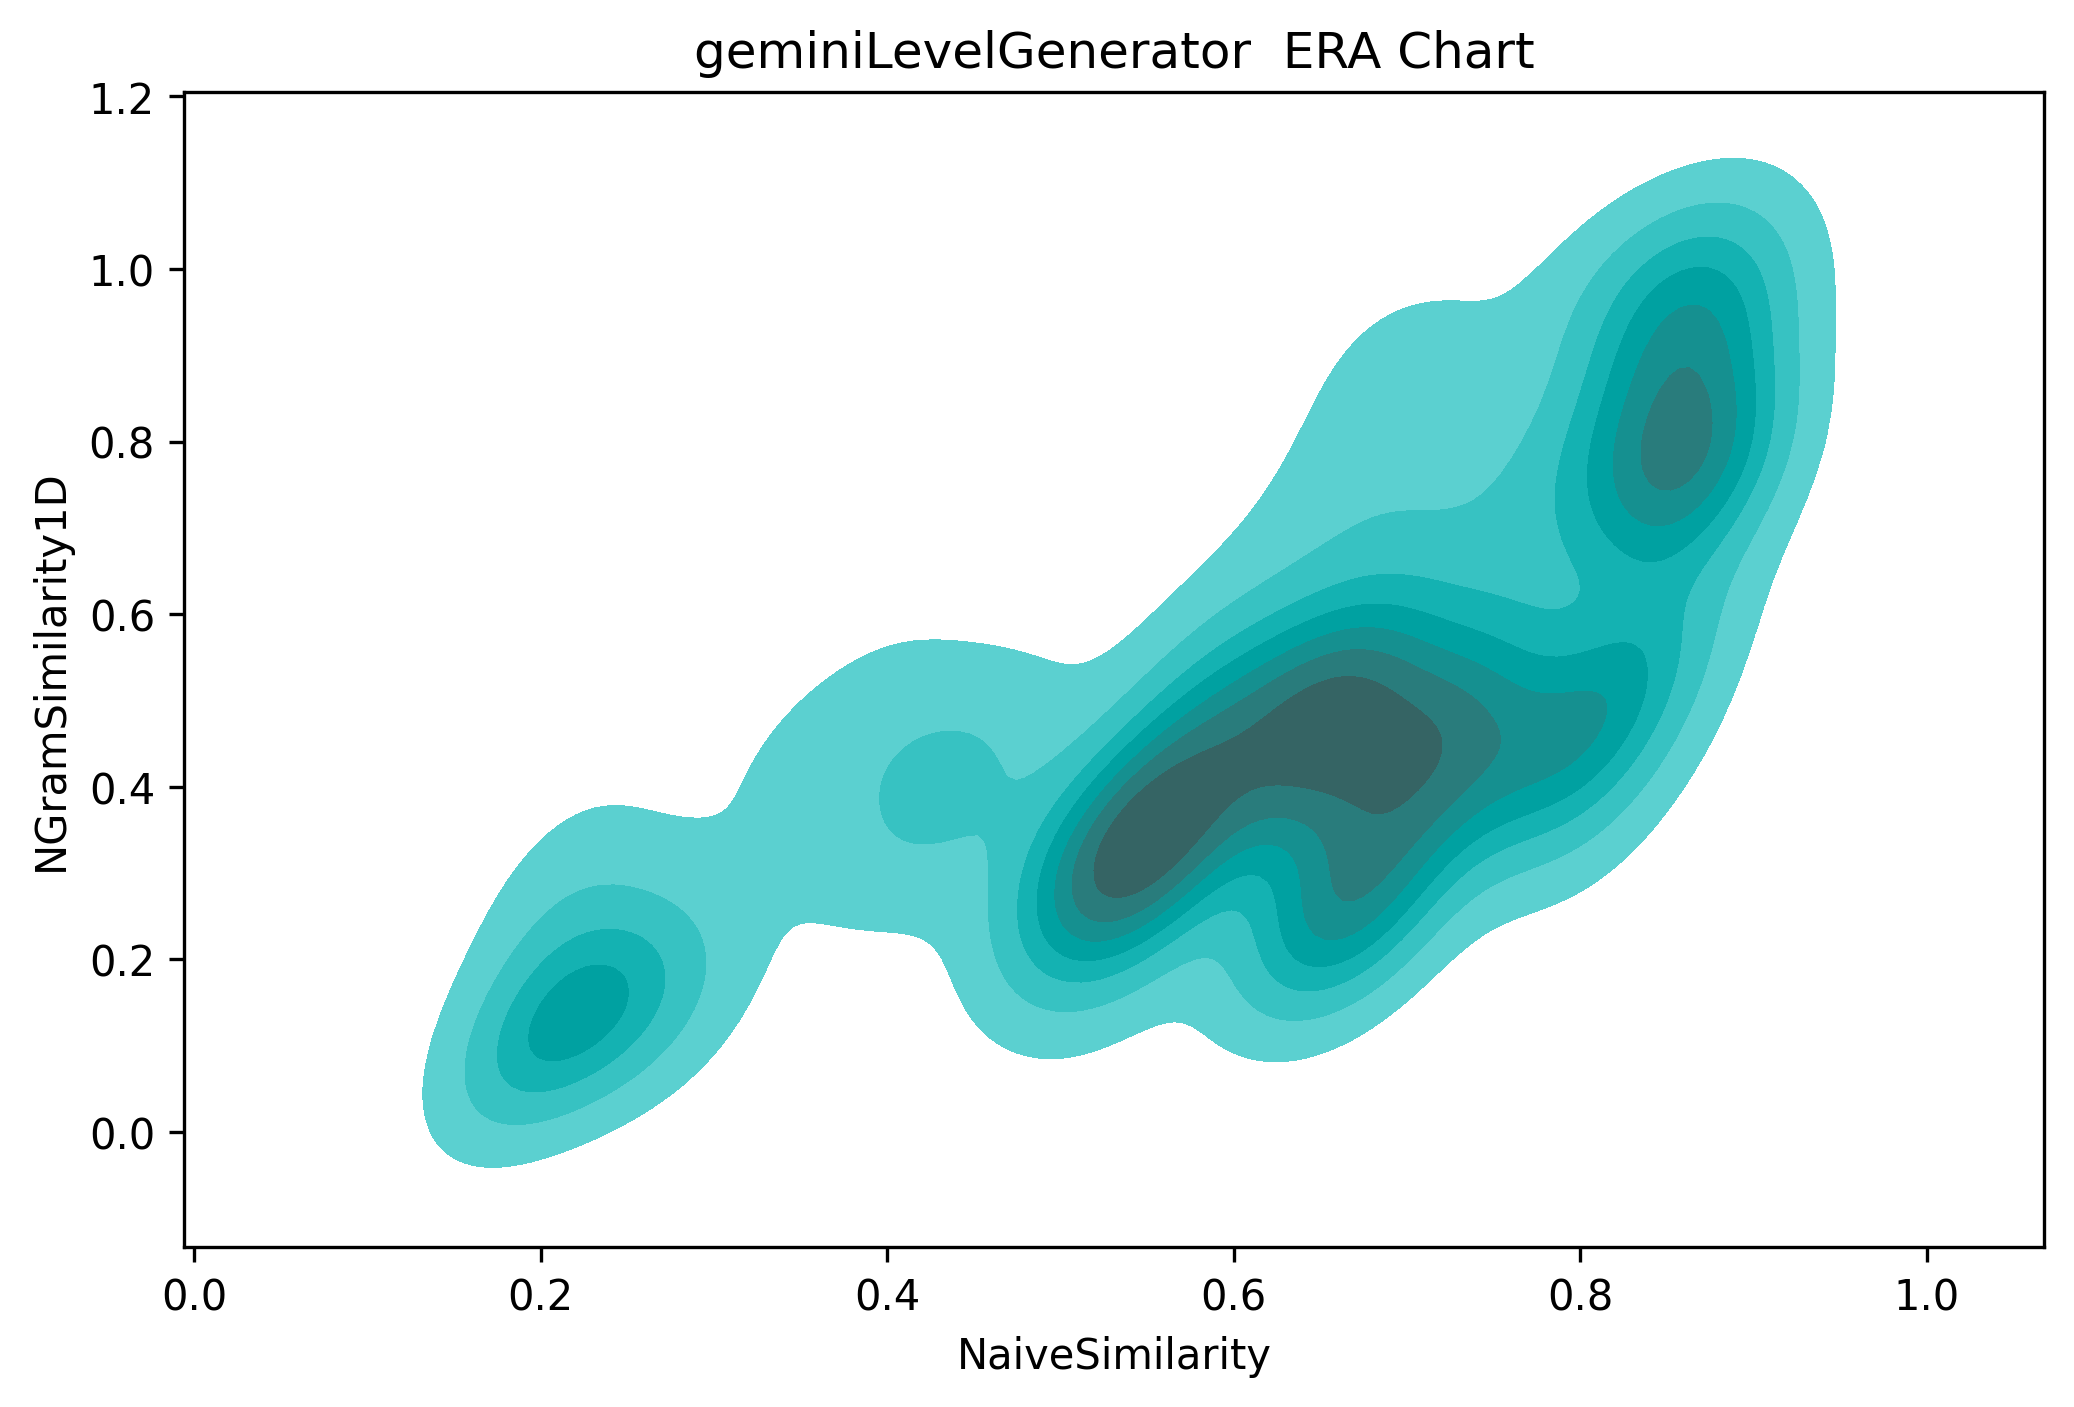
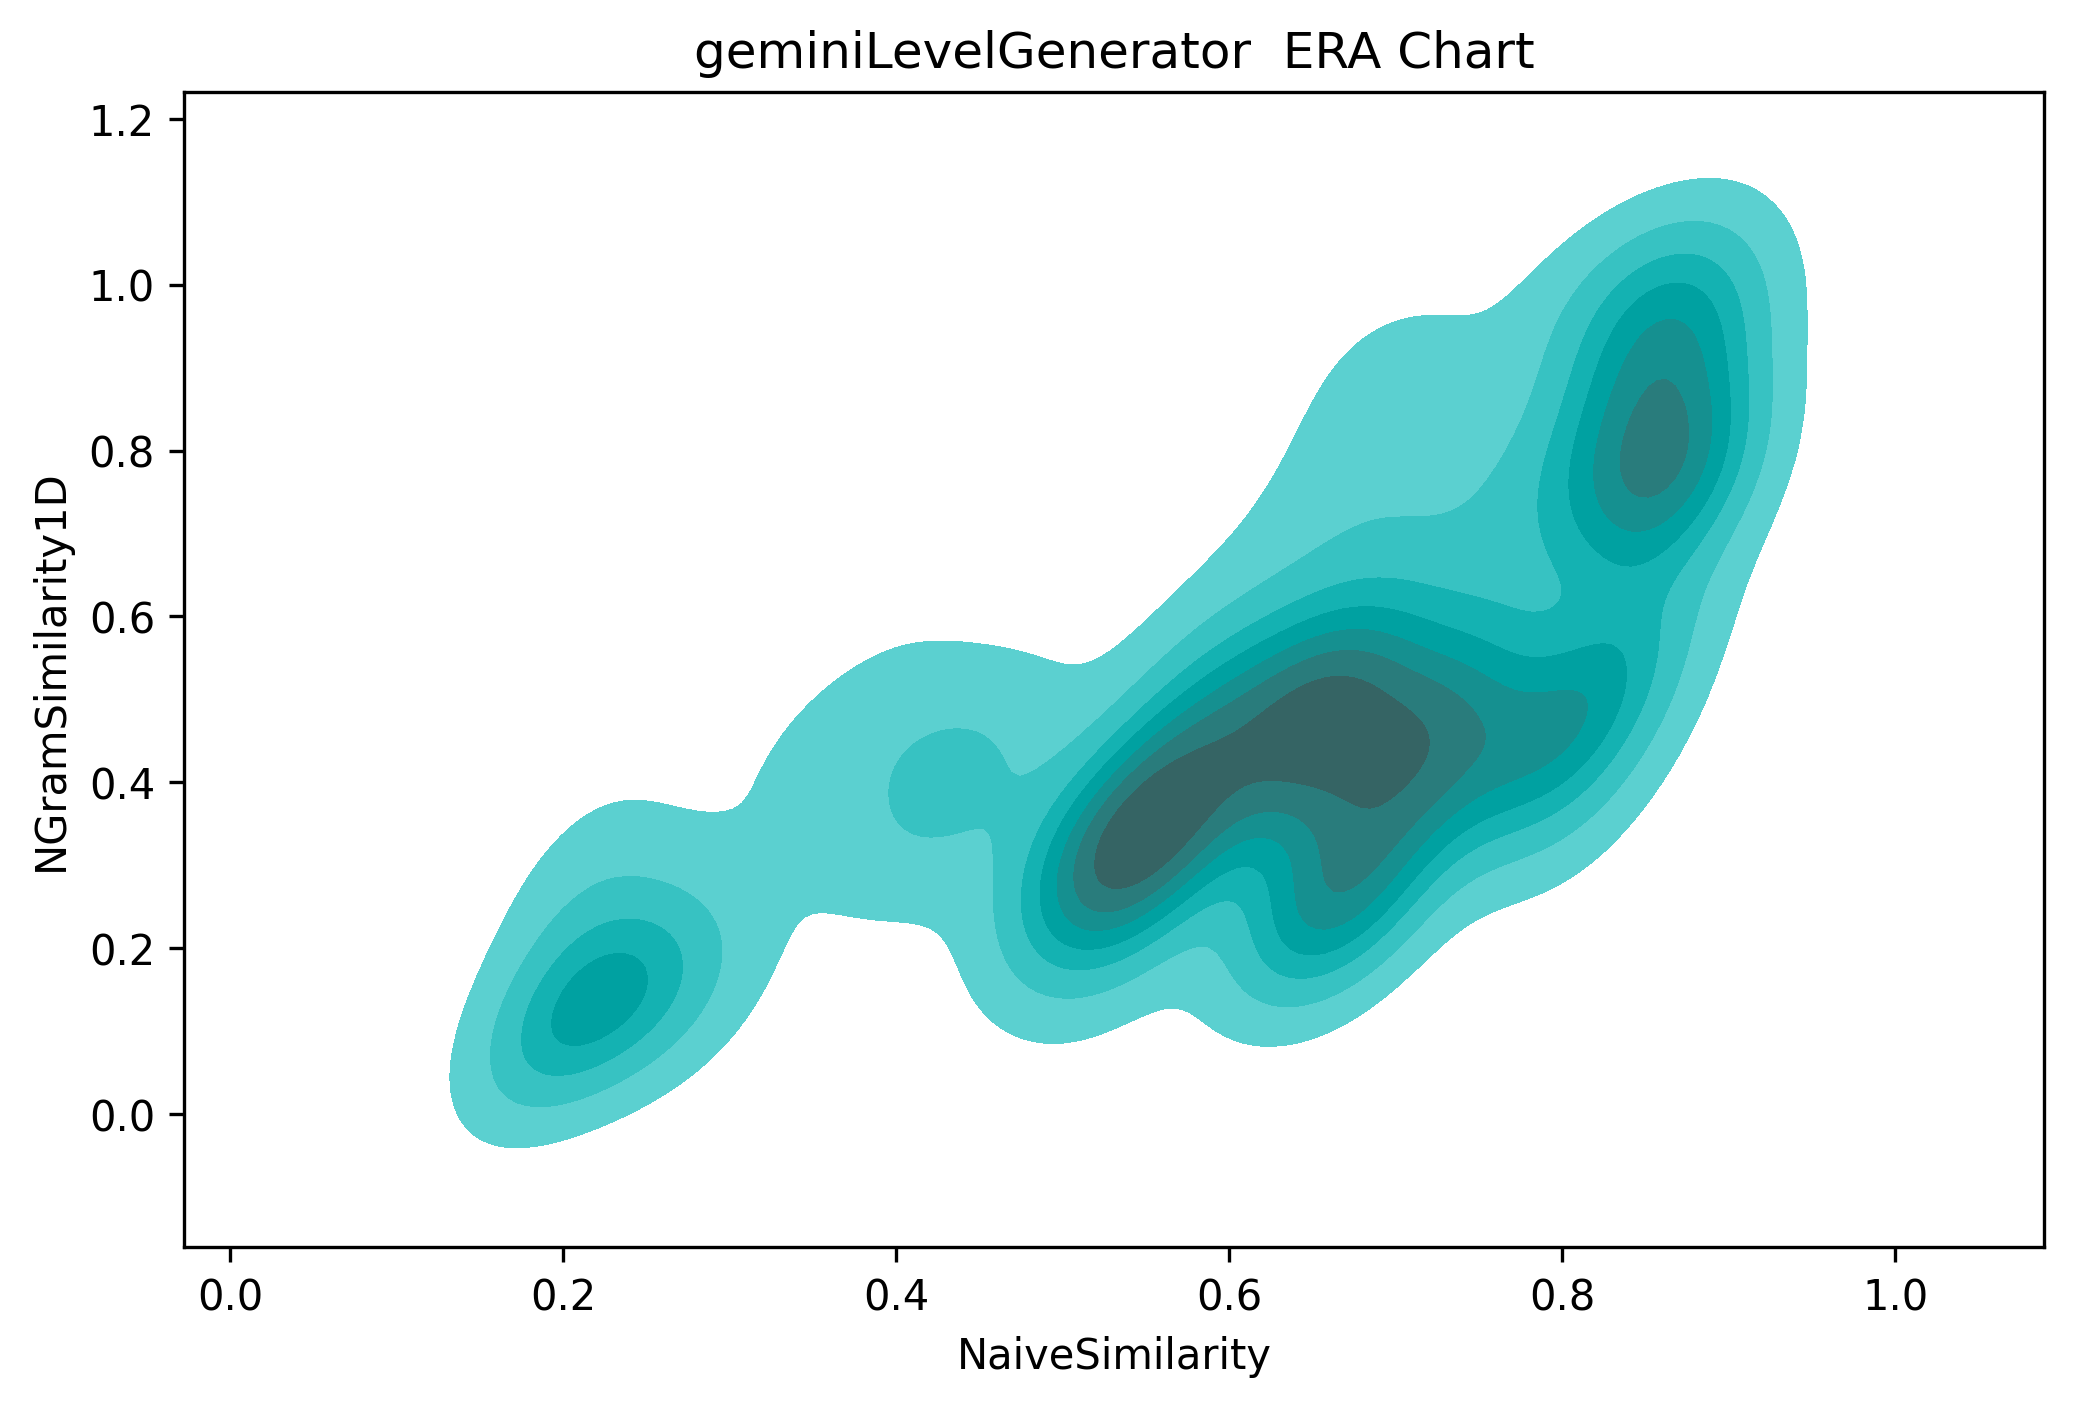
calculateMetrics Pipeline changes (mostly) complete

diff --git a/src/tools/metricCalculation/metrics/byGeneratorMetrics/OutputNGramSimilarity1D.java b/src/tools/metricCalculation/metrics/byGeneratorMetrics/OutputNGramSimilarity1D.java
@@ -8,9 +8,12 @@ import java.util.HashMap;
 import java.util.HashSet;
 import java.util.stream.Stream;
 
+import tools.metricCalculation.metricTools;
+
 public class OutputNGramSimilarity1D {
     // Fix later
     public static double calculateMetric(String generatorFolderPath, int nGramSize){
+        System.out.println("Output similarity ngrams 1D");
         ArrayList<Path> allLevelPaths = new ArrayList<Path>();
         try {
             
@@ -18,66 +21,57 @@ public class OutputNGramSimilarity1D {
             double totalSimilarity = 0;
             Stream<Path> levelStream = Files.list(Path.of(generatorFolderPath)).filter(f -> f.toString().endsWith(".txt"));
             levelStream.forEach(path -> {
-               // allLevelPaths.add(f);
+               allLevelPaths.add(path);
             });
         } catch (IOException e) {
             e.printStackTrace();
         }
-        //return getSimilarity1D()
-        return 0;
+
+        double totalPlagiarism = 0;
+        for (Path path : allLevelPaths){
+            for (Path other : allLevelPaths){
+                totalPlagiarism += 1.0/(allLevelPaths.size() * allLevelPaths.size()) * getSimilarity1D(path, other, nGramSize);
+            }
+        }
+        
+        return totalPlagiarism;
     }
 
-    public double getSimilarity1D(Path subjectLevelPath, ArrayList<Path> remainingOutputLevels, int nGramSize){
-        int totalSampleLevels = remainingOutputLevels.size();
+    public static double getSimilarity1D(Path subjectLevelPath, Path otherLevelPath, int nGramSize){
         
         HashSet<String> inputSamples = new HashSet<String>();
         try {
-            String[] subjectLevelLiines = Files.readString(subjectLevelPath).split(System.lineSeparator());
+            String[] subjectLevelLiines = metricTools.getLevelTiles(Files.readString(subjectLevelPath)).split(System.lineSeparator());
 
             for (int i = 0; i < subjectLevelLiines.length; i++){
                 for (int j = 0; j < subjectLevelLiines[i].length()-nGramSize; j++){
                     inputSamples.add(subjectLevelLiines[i].substring(j, j+nGramSize));
                 }
-                System.out.println("Input Samples: " + inputSamples);
-            }
-        
-            HashMap<Path, Double> examplesToPlagiarismLevel = new HashMap<Path, Double>();
-        
-            for (Path p : remainingOutputLevels){
-                // Fill existing ngram samples
-                HashSet<String> existingSamples = new HashSet<String>();
-                
-                    String exampleLevel = Files.readString(p);
-                    String[] exampleLevelLines = exampleLevel.split("\n");
-                    for (int i = 0; i < exampleLevelLines.length; i++){
-                        for (int j = 0; j < exampleLevelLines[i].length()-nGramSize; j++){
-                            existingSamples.add(exampleLevelLines[i].substring(j, j + nGramSize));
-                        }
-                    }
-                    //System.out.println(existingSamples);
-                    //System.out.println(existingSamples);
-                    
-                    
-                    double totalInputSamples = inputSamples.size();
-                    // Get intersection of existing vs input level n-grams
-                    existingSamples.retainAll(inputSamples);
-                    HashSet<String> overlaps = existingSamples;
-                    int totalOverlappingSamples = overlaps.size();
-                    System.out.println(overlaps);
-
-                    // Give the input level a plagiarism level in refernce to the iterated existing corpus level
-                    // This is calculated by the fraction of n-grams in the input level that can be found in the selected corpus level
-                    examplesToPlagiarismLevel.put(p, totalOverlappingSamples/totalInputSamples);
-                }
-                
-
-                double maxPlagiarism = 0;
-                for (Path key : examplesToPlagiarismLevel.keySet()){
-                    if (examplesToPlagiarismLevel.get(key) > maxPlagiarism){
-                        maxPlagiarism = examplesToPlagiarismLevel.get(key);
+                //System.out.println("Input Samples: " + inputSamples);
+            }        
+            // Fill existing ngram samples
+            HashSet<String> existingSamples = new HashSet<String>();
+            
+                String exampleLevel = metricTools.getLevelTiles(Files.readString(otherLevelPath));
+                String[] exampleLevelLines = exampleLevel.split(System.lineSeparator());
+                for (int i = 0; i < exampleLevelLines.length; i++){
+                    for (int j = 0; j < exampleLevelLines[i].length()-nGramSize; j++){
+                        existingSamples.add(exampleLevelLines[i].substring(j, j + nGramSize));
                     }
                 }
-                return maxPlagiarism;
+                //System.out.println(existingSamples);                
+                
+                double totalInputSamples = inputSamples.size();
+                // Get intersection of existing vs input level n-grams
+                existingSamples.retainAll(inputSamples);
+                HashSet<String> overlaps = existingSamples;
+                int totalOverlappingSamples = overlaps.size();
+                //System.out.println(overlaps);
+                
+                // Give the input level a plagiarism level in refernce to the other level
+                // This is calculated by the fraction of n-grams in the input level that can be found in the selected corpus level
+                return totalOverlappingSamples/totalInputSamples;
+                
             }
             
             catch (IOException e1){
@@ -88,10 +82,11 @@ public class OutputNGramSimilarity1D {
 
 
         public static void main(String[] args) throws IOException{
-        String testLevel2 = Files.readString(Path.of("generatedExamples\\geminiLevelGenerator\\realsokoban"));
-        System.out.println(calculateMetric(testLevel2, 5));
 
-    }
+        String testFolder = "generatedExamples/geminiLevelGenerator/realsokoban";
+        System.out.println(calculateMetric(testFolder, 5));
+
+        }
     }
     
 

diff --git a/src/tools/metricCalculation/calculateMetrics.java b/src/tools/metricCalculation/calculateMetrics.java
@@ -39,8 +39,8 @@ public class calculateMetrics {
         //System.out.println("Wall/Floor Ratio Calculations Complete");
         levelMetrics.addProperty("NaiveSimilarity", NaiveSimilarity.calculateMetric(levelText));
 
-        levelMetrics.addProperty("NGramSimilarity1D", NGramSimilarity1D.calculateMetric(levelText, 5));
-        levelMetrics.addProperty("NGramSimilarity2D", NGramSimilarity1D.calculateMetric(levelText, 3));
+        //levelMetrics.addProperty("NGramSimilarity1D", NGramSimilarity1D.calculateMetric(levelText, 5));
+        //levelMetrics.addProperty("NGramSimilarity2D", NGramSimilarity1D.calculateMetric(levelText, 3));
 
 
         //levelMetrics.addProperty("SomeMetric", SomeMetric.calculateSomeMetric(levelText));
@@ -87,7 +87,7 @@ public class calculateMetrics {
         */
 
     // Creates metric.json files for a generator as well as its individual games
-    public static void createFolderMetricsRecursive(String levelFolderPath){
+    public static void createMetricsByLevel(String levelFolderPath){
         try {
             ArrayList<JsonObject> fullGeneratorJsonList = new ArrayList<JsonObject>();
             // Here we calculate metrics by game so that we are able to save a metric file for each game in each generator along with the metric file for all games for a generator
@@ -147,9 +147,47 @@ public class calculateMetrics {
         }
     }
     
-    public static void createByGeneratorMetrics(String generatorFolderPath){
-        JsonObject generatorJson = new JsonObject();
-        // Add metrics that only make sense within the context of an entire generator here
+    public static void createMetricsByFolderRecursive(String generatorFolderPath) throws IOException{
+        ArrayList<JsonObject> jsonsByGame = new ArrayList<JsonObject>();
+        
+        Stream<Path> streamByGame = Files.list(Path.of(generatorFolderPath)).filter(f -> !f.endsWith(".json"));
+        streamByGame.forEach(game -> {
+            JsonObject fullGameJson = new JsonObject();
+            System.out.println("Creating metrics for... " + generatorFolderPath + "/" + game.toString());
+            fullGameJson.addProperty("OutputNGramSimilarity1D", OutputNGramSimilarity1D.calculateMetric(game.toString(), 5));
+            try {
+                Files.writeString(Path.of(game + "/" + "folderMetrics.json"), fullGameJson.toString());
+            } catch (IOException e) {
+                // TODO Auto-generated catch block
+                e.printStackTrace();
+            }
+            jsonsByGame.add(fullGameJson);
+        });
+
+        JsonObject finalFolderJson = new JsonObject();
+
+        // Sum folder metrics betweeen games
+        for (JsonObject j : jsonsByGame){
+            for (String metric : j.keySet()){
+                if (!finalFolderJson.has(metric)){
+                    finalFolderJson.add(metric, j.get(metric));}
+                else{
+                    finalFolderJson.addProperty(metric, finalFolderJson.get(metric).getAsDouble() + j.get(metric).getAsDouble());
+                    
+                }
+            }
+        }
+        // Divide by the number of games (We assume each game folder has the same number of levels)
+        
+        for (String metric : finalFolderJson.keySet()){
+            finalFolderJson.addProperty(metric, finalFolderJson.get(metric).getAsDouble() / jsonsByGame.size());
+        }
+        Files.writeString(Path.of(generatorFolderPath + "/" + "folderMetrics.json"), finalFolderJson.toString());
+        
+        
+        //Here, add metrics that only make sense within the context of a folder of levels (ex. comparing output level diversity)
+
+
         
     }
 
@@ -170,8 +208,11 @@ public class calculateMetrics {
         for (String s: selectedFolders){
             //System.out.println(createFolderMetricJson(s));
             //Files.writeString(Path.of(s + "/" + "metrics.json"), createFolderMetricJson(s).toString());
-            createFolderMetricsRecursive(s);
-            createByGeneratorMetrics(s);
+            
+            System.out.println("Calculating metrics by level!");
+            createMetricsByLevel(s);
+            System.out.println("Calculating metrics by folder!");
+            createMetricsByFolderRecursive(s);
         }
         
     }

diff --git a/metric_analysis/create_density_estimation_chart.py b/metric_analysis/create_density_estimation_chart.py
@@ -32,7 +32,14 @@ def create_graph(selected_metrics_tuple: tuple, json_path: str, exclude_malforme
 
     # Sets bounds for figure
     #ax.set(xlim=(min(listX), max(listX)), ylim=(min(listY), max(listY)))
+    padding_factor = .25
+    x_padding = (max(listX) - min(listX)) * padding_factor
+    y_padding = (max(listY) - min(listY)) * padding_factor
     
+    plt.xlim(min(listX) - x_padding, max(listX) + x_padding)
+    plt.ylim(min(listY) - y_padding, max(listY) + y_padding)
+
+
     # Set exterior characteristics
     generator_name = json_path.split("/")[1]
     if json_path.split("/")[2] != "metrics.json": game_name = json_path.split("/")[2].capitalize() 
@@ -47,16 +54,16 @@ def create_graph(selected_metrics_tuple: tuple, json_path: str, exclude_malforme
 
 # USAGE: Select a metrics.json file path, then determinr the graph's x and y axis by completing the selected metrics tuple
 
-metric_path = "generatedExamples/geminiLevelGenerator/metrics.json"
+# metric_path = "generatedExamples/geminiLevelGenerator/metrics.json"
 # metric_path = "generatedExamples/LocalLanguageModelGenerator/metrics.json"
 # metric_path = "generatedExamples/constructiveLevelGenerator/metrics.json"
-# metric_path = "generatedExamples/randomLevelGenerator/metrics.json"
+metric_path = "generatedExamples/randomLevelGenerator/metrics.json"
 
 
 # metric_path = "generatedExamples/constructiveLevelGenerator/dungeon/metrics.json"
 # metric_path = "generatedExamples/geminiLevelGenerator/frogs/metrics.json"
 
-selected_metrics = ("NaiveSimilarity", "NGramSimilarity1D")
+selected_metrics = ("ShannonEntropy", "NGramSimilarity2D")
 create_graph(selected_metrics, metric_path, exclude_malformed=True)
 
 # TODO legend for ERA chart, show total level amounts for ERA and histogram

diff --git a/metric_analysis/create_ERA_graph.py b/metric_analysis/create_ERA_graph.py
@@ -31,6 +31,13 @@ def create_graph(selected_metrics_tuple: tuple, json_path: str, exclude_malforme
 
     # Sets bounds for figure
     ax.set(xlim=(min(listX), max(listX)), ylim=(min(listY), max(listY)))
+
+    padding_factor = .25
+    x_padding = (max(listX) - min(listX)) * padding_factor
+    y_padding = (max(listY) - min(listY)) * padding_factor
+    
+    plt.xlim(min(listX) - x_padding, max(listX) + x_padding)
+    plt.ylim(min(listY) - y_padding, max(listY) + y_padding)
     
     # Set exterior characteristics
     generator_name = json_path.split("/")[1]
@@ -55,7 +62,7 @@ metric_path = "generatedExamples/geminiLevelGenerator/metrics.json"
 # metric_path = "generatedExamples/constructiveLevelGenerator/dungeon/metrics.json"
 # metric_path = "generatedExamples/geminiLevelGenerator/frogs/metrics.json"
 
-selected_metrics = ("ShannonEntropy", "CorpusPlagiarism")
+selected_metrics = ("ShannonEntropy", "NGramSimilarity2D")
 create_graph(selected_metrics, metric_path, exclude_malformed=True)
 
 # TODO legend for ERA chart, show total level amounts for ERA and histogram

diff --git a/src/tracks/singlePlayer/Test.java b/src/tracks/singlePlayer/Test.java
@@ -34,7 +34,7 @@ public class Test {
 		int seed = new Random().nextInt();
 
 		// Game and level to play
-		int gameIdx = 33;
+		int gameIdx = 110;
 		int levelIdx = 4; // level names from 0 to 4 (game_lvlN.txt).
 		String gameName = games[gameIdx][1];
 		String game = games[gameIdx][0];
@@ -46,7 +46,7 @@ public class Test {
 						// executed. null if not to save.
 
 		// 1. This starts a game, in a level, played by a human.
-		ArcadeMachine.playOneGame(game, level1, recordActionsFile, seed);
+		ArcadeMachine.playOneGame(game, "generatedExamples\\geminiLevelGenerator\\artillery\\artillery_lvl001.txt", recordActionsFile, seed);
 
 		// 2. This plays a game in a level by the controller.
 //		ArcadeMachine.runOneGame(game, level1, visuals, sampleRHEAController, recordActionsFile, seed, 0);